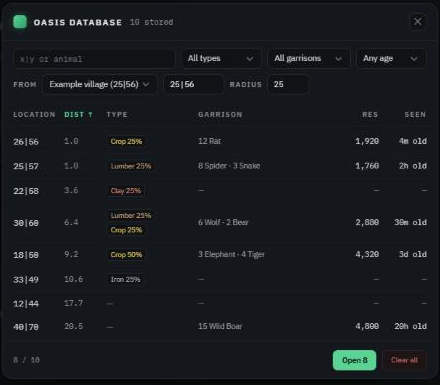
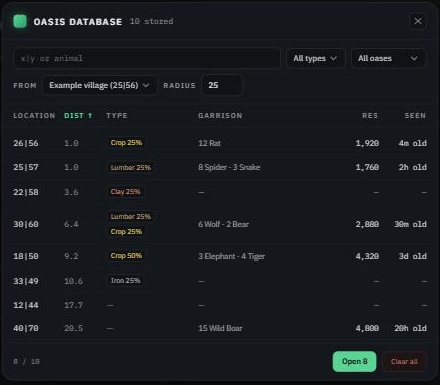
fix(travian-extensions): Oasis Finder 70.1 database filter cleanup

diff --git a/projects/travian-extensions/extensions/OasisCalc/db-view.js b/projects/travian-extensions/extensions/OasisCalc/db-view.js
@@ -7,13 +7,6 @@ const DB_OPEN_CONFIRM_AT = 10; // ask before opening this many tabs or more
 const DB_OPEN_MAX = 50; // hard cap per click; background.js enforces it too
 const DB_MAP_LIMIT = Math.floor(MAP_SIZE / 2);
 const DB_BONUS_NAMES = { 1: "Lumber", 2: "Clay", 3: "Iron", 4: "Crop" };
-const DB_AGE_LIMITS = {
-  any: Infinity,
-  "1h": 3600e3,
-  "6h": 6 * 3600e3,
-  "24h": 24 * 3600e3,
-  "7d": 7 * 24 * 3600e3,
-};
 // Default direction per column: 1 = ascending, -1 = descending.
 const DB_SORT_DEFAULT_DIR = { loc: 1, dist: 1, type: 1, animals: -1, res: -1, seen: 1 };
 const DB_SORT_LAST = Infinity; // unknown values always sort last
@@ -172,7 +165,7 @@ function _dbReadFilter() {
     type: document.getElementById("_vpdb-type")?.value || "any",
     state: document.getElementById("_vpdb-state")?.value || "all",
     radius: Number.isFinite(radius) && radius > 0 ? radius : 0,
-    maxAge: DB_AGE_LIMITS[document.getElementById("_vpdb-age")?.value] ?? Infinity,
+    maxAge: Infinity,
   };
 }
 
@@ -242,12 +235,13 @@ function _dbFillOriginSelect() {
       .map((v) => `<option value="${escapeHTML(v.x)}|${escapeHTML(v.y)}">${escapeHTML(v.name)} (${escapeHTML(v.x)}|${escapeHTML(v.y)})</option>`)
       .join("") + '<option value="custom">Coordinate</option>';
   const keepCustom = sel.dataset.custom === "1" && parseCoordInput(xy.value);
-  if (keepCustom) {
+  if (!keepCustom) {
+    sel.value = villages.some((v) => `${v.x}|${v.y}` === current) ? current : "custom";
+    xy.value = current;
+  } else {
     sel.value = "custom";
-    return;
   }
-  sel.value = villages.some((v) => `${v.x}|${v.y}` === current) ? current : "custom";
-  xy.value = current;
+  xy.hidden = sel.value !== "custom";
 }
 
 function openDbOases() {
@@ -320,22 +314,16 @@ function initDatabaseView() {
   const tools = document.getElementById("_vpdb-tools");
   if (!tools) return;
   tools.addEventListener("input", (e) => {
-    if (e.target.id === "_vpdb-xy") {
-      const sel = document.getElementById("_vpdb-from");
-      const val = e.target.value.trim();
-      const isVillage = !!sel && [...sel.options].some((o) => o.value === val && o.value !== "custom");
-      if (sel) {
-        sel.value = isVillage ? val : "custom";
-        sel.dataset.custom = isVillage ? "" : "1";
-      }
-    }
     renderDbList();
   });
   tools.addEventListener("change", (e) => {
     if (e.target.id === "_vpdb-from") {
-      e.target.dataset.custom = e.target.value === "custom" ? "1" : "";
-      if (e.target.value !== "custom") document.getElementById("_vpdb-xy").value = e.target.value;
-      else document.getElementById("_vpdb-xy").focus();
+      const xy = document.getElementById("_vpdb-xy");
+      const custom = e.target.value === "custom";
+      e.target.dataset.custom = custom ? "1" : "";
+      xy.hidden = !custom;
+      if (custom) xy.focus();
+      else xy.value = e.target.value;
     }
     renderDbList();
   });

diff --git a/projects/travian-extensions/extensions/OasisCalc/ui.js b/projects/travian-extensions/extensions/OasisCalc/ui.js
@@ -667,25 +667,17 @@ function createUI() {
                             <option value="2">Clay</option>
                             <option value="3">Iron</option>
                             <option value="4">Crop</option>
-                            <option value="none">Type unknown</option>
                         </select>
                         <select id="_vpdb-state" class="_vpselect-sm" aria-label="Garrison">
-                            <option value="all">All garrisons</option>
+                            <option value="all">All oases</option>
                             <option value="animals">With animals</option>
-                            <option value="nodata">No animal data</option>
-                        </select>
-                        <select id="_vpdb-age" class="_vpselect-sm" aria-label="Last seen">
-                            <option value="any">Any age</option>
-                            <option value="1h">Seen ≤ 1h</option>
-                            <option value="6h">Seen ≤ 6h</option>
-                            <option value="24h">Seen ≤ 24h</option>
-                            <option value="7d">Seen ≤ 7d</option>
+                            <option value="nodata">No animals</option>
                         </select>
                     </div>
                     <div class="_vpdb-toolrow">
                         <label class="_vpdb-label" for="_vpdb-from">From</label>
                         <select id="_vpdb-from" class="_vpselect-sm _vpdb-from"></select>
-                        <input type="text" id="_vpdb-xy" class="_vpdb-input _vpdb-xy" placeholder="x|y" aria-label="Origin coordinate" autocomplete="off" spellcheck="false">
+                        <input type="text" id="_vpdb-xy" class="_vpdb-input _vpdb-xy" placeholder="x|y" hidden aria-label="Origin coordinate" autocomplete="off" spellcheck="false">
                         <label class="_vpdb-label" for="_vpdb-radius">Radius</label>
                         <input type="number" id="_vpdb-radius" class="_vpdb-input _vpdb-num" min="0" max="200" step="1" placeholder="All">
                     </div>

diff --git a/projects/travian-extensions/extensions/OasisCalc/oasis_finder.css b/projects/travian-extensions/extensions/OasisCalc/oasis_finder.css
@@ -1229,20 +1229,26 @@
   width: auto;
   min-height: 28px;
 }
-._vpdb-input {
-  min-height: 28px;
-  background: #101216;
-  border: 1px solid #262b33;
-  border-radius: 7px;
-  color: #e6e8ea;
-  font-family: "IBM Plex Mono", ui-monospace, monospace;
-  font-size: 11px;
-  padding: 4px 8px;
+/* !important: Travian's global input styles (white box, own font) win otherwise */
+#_vpdb-modal ._vpdb-input {
+  height: 30px !important;
+  min-height: 30px !important;
+  background: #101216 !important;
+  border: 1px solid #262b33 !important;
+  border-radius: 8px !important;
+  box-shadow: none !important;
+  color: #e6e8ea !important;
+  font-family: "IBM Plex Mono", ui-monospace, monospace !important;
+  font-size: 11px !important;
+  line-height: 1.2 !important;
+  padding: 4px 9px !important;
+  margin: 0 !important;
   outline: none;
 }
-._vpdb-input::placeholder { color: #6f7680; }
-._vpdb-input:focus { border-color: #5bd39466; }
-._vpdb-input._vpdb-invalid { border-color: #e8786b; }
+#_vpdb-modal ._vpdb-input[hidden] { display: none !important; }
+#_vpdb-modal ._vpdb-input::placeholder { color: #6f7680 !important; }
+#_vpdb-modal ._vpdb-input:focus { border-color: #5bd39466 !important; }
+#_vpdb-modal ._vpdb-input._vpdb-invalid { border-color: #e8786b !important; }
 ._vpdb-q { flex: 1 1 140px; min-width: 120px; }
 ._vpdb-xy { width: 84px; }
 ._vpdb-num { width: 58px; }
@@ -1266,9 +1272,11 @@
 ._vpdb-sort {
   all: unset;
   cursor: pointer;
-  font: inherit;
-  letter-spacing: inherit;
-  text-transform: inherit;
+  font-family: inherit !important;
+  font-size: 10px !important;
+  font-weight: 600 !important;
+  letter-spacing: 0.12em !important;
+  text-transform: uppercase !important;
   color: #848a94;
   padding: 3px 0;
   border-radius: 4px;

diff --git a/projects/travian-extensions/docs/USAGE.md b/projects/travian-extensions/docs/USAGE.md
@@ -39,8 +39,8 @@ Unknown-age or incomplete readings are excluded. **Errors** shows scan problems,
 
 **View DB** lists every stored oasis:
 
-- Search by coordinates or animal name. Filter by oasis type (Lumber, Clay, Iron, Crop or unknown), garrison (with animals or no animal data) and last-seen age.
-- **From** sets the origin: one of your villages or any `x|y` coordinate. **Radius** limits the list to that distance.
+- Search by coordinates or animal name. Filter by oasis type (Lumber, Clay, Iron or Crop) and by **With animals** or **No animals**.
+- **From** sets the origin: one of your villages, or **Coordinate** to enter any `x|y`. **Radius** limits the list to that distance.
 - Click a column header to sort by location, distance, type, garrison, resources or last seen. Click again to reverse.
 - **Open N** opens the listed oases in background tabs, in the current sort order. It needs a radius, asks first at 10 or more, opens at most 50 per click, and spaces the tabs 0.35–0.75 s apart.
 

diff --git a/projects/travian-extensions/README.md b/projects/travian-extensions/README.md
@@ -10,7 +10,7 @@ Seven standalone browser extensions for Travian: forecasting, statistics history
 
 | Extension | Purpose | Version |
 | --- | --- | --- |
-| <a id="oasis-finder"></a>[Oasis Finder](extensions/OasisCalc/) | Oasis scoring and farm-list sorting | 70.0 |
+| <a id="oasis-finder"></a>[Oasis Finder](extensions/OasisCalc/) | Oasis scoring and farm-list sorting | 70.1 |
 | <a id="travalarm"></a>[TravAlarm](extensions/travAlarm/) | Game timers, custom reminders and notifications | 3.36 |
 | <a id="travian-qol"></a>[Travian QoL](extensions/TravianQoL/) | Farm-list selection, reports and interface utilities | 1.2.3 |
 | <a id="rank-tracker"></a>[Rank Tracker](extensions/TravianRankTracker/) | Rankings, statistics history and comparison graphs | 5.0.14 |

diff --git a/projects/travian-extensions/CHANGELOG.md b/projects/travian-extensions/CHANGELOG.md
@@ -1,5 +1,11 @@
 # Changelog
 
+## Oasis Finder 70.1 — 2026-11-10
+
+- **View DB**: search and radius boxes keep the dark style on game pages, and column headers no longer run together.
+- Removed the last-seen filter and the **Type unknown** option. Filters read **All oases**, **With animals** and **No animals**.
+- The `x|y` box appears only when **From** is set to **Coordinate**.
+
 ## Travian QoL 1.2.3 — 2026-11-10
 
 - Oasis raid reports: the defender's **Resources lost** and **Net resources** show 0, since animals cost nothing to replace.

diff --git a/projects/travian-extensions/extensions/OasisCalc/README.md b/projects/travian-extensions/extensions/OasisCalc/README.md
@@ -2,7 +2,7 @@
 
 Scores nearby oases using observed game data, troop costs and travel estimates.
 
-**Version 70.0 · JavaScript · Manifest V3**
+**Version 70.1 · JavaScript · Manifest V3**
 
 [Usage guide](../../docs/USAGE.md#oasis-finder) · [Installation](../../README.md#install-in-brave-chrome-or-edge) · [All extensions](../../README.md)
 
